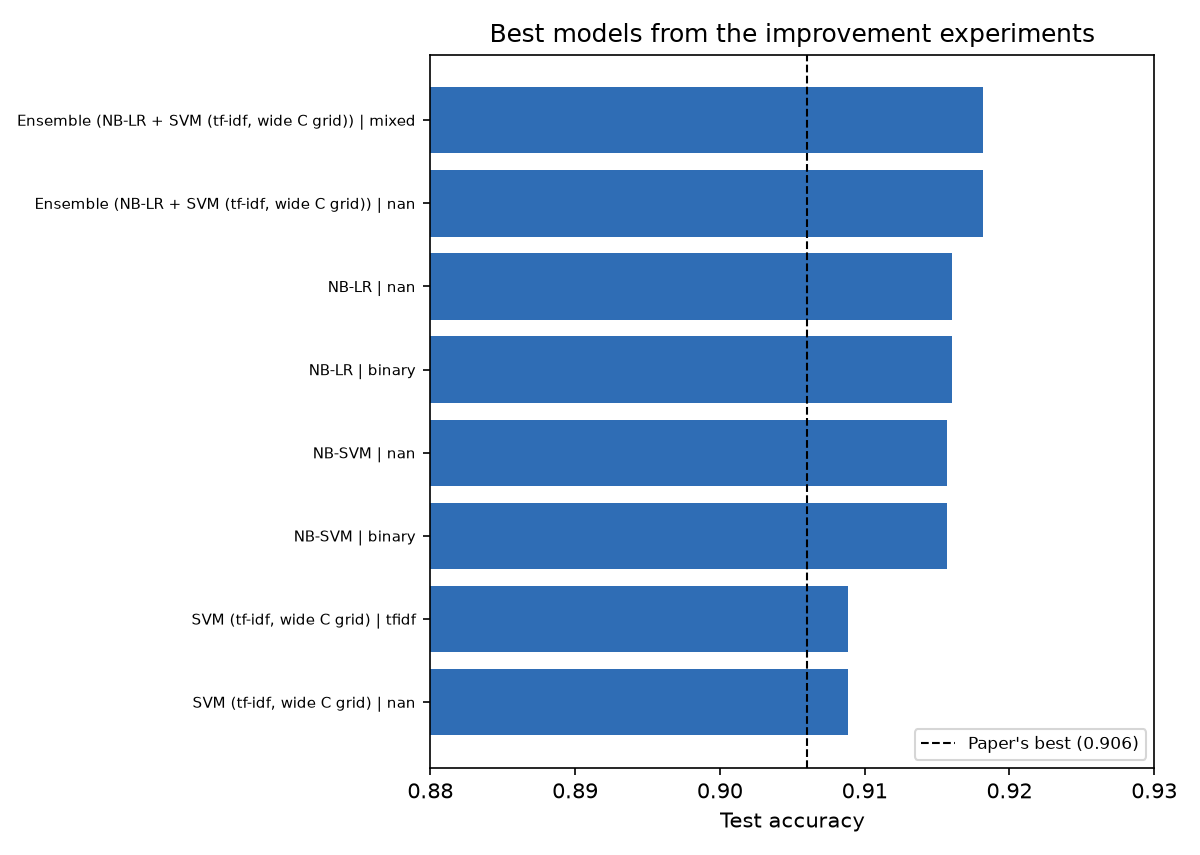
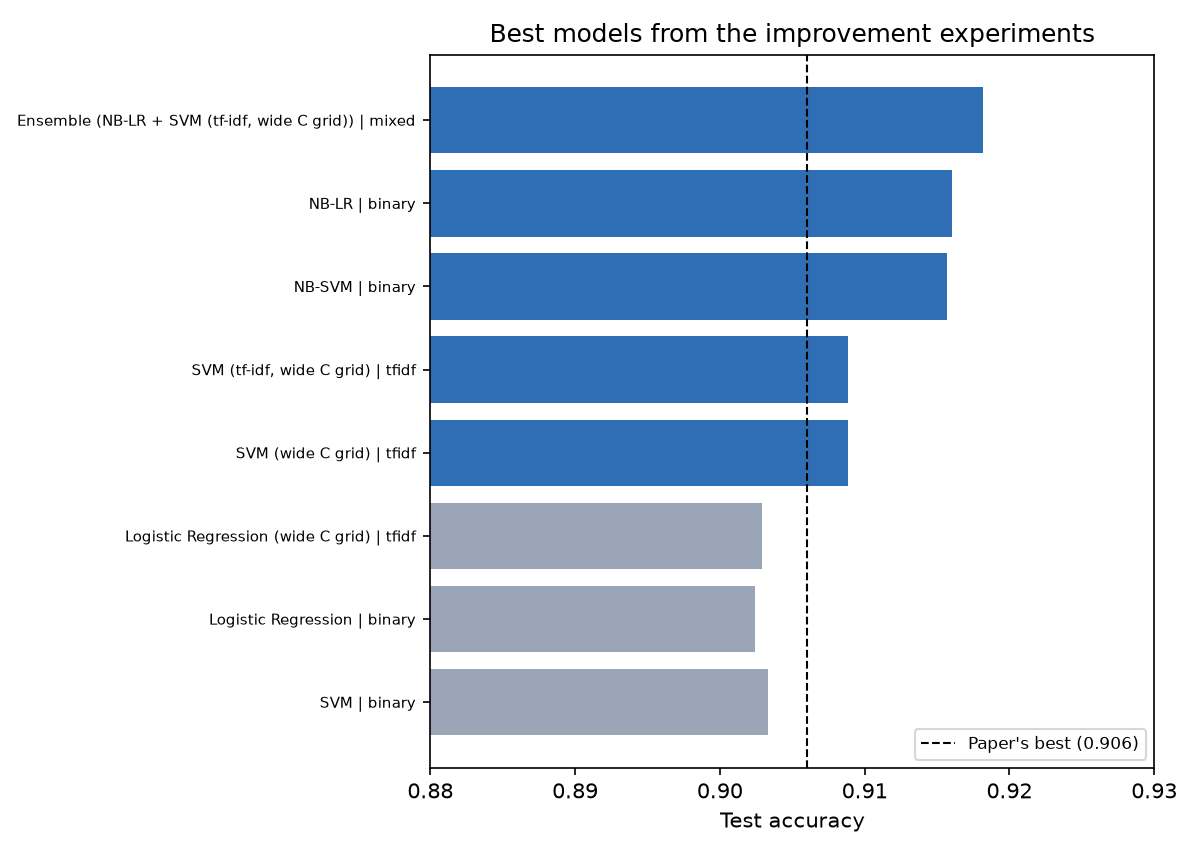
useless commit

diff --git a/src/preprocess.py b/src/preprocess.py
@@ -15,10 +15,15 @@ import pandas as pd
 from nltk.corpus import stopwords
 from nltk.stem import WordNetLemmatizer
 
-from src.config import PROCESSED_DIR, QUICK_N, SEED
+from src.config import DATA_DIR, PROCESSED_DIR, QUICK_N, SEED
 from src.data import load_raw
 
 CLEANING_MODES = ("paper", "paper_nltk", "minimal")
+
+# NLTK's stop words and WordNet are kept inside the project, so every shell and machine
+# reads the same copy and nothing has to be downloaded again at demo time.
+NLTK_DIR = DATA_DIR / "nltk_data"
+nltk.data.path.insert(0, str(NLTK_DIR))
 
 # The paper does not name its stop-word list; its examples ('a', 'the', 'of') come from the
 # short list used in the tutorial it cites for its method (A. Kub, refs [5, 6]).
@@ -34,7 +39,7 @@ def _nltk_stop_words():
     try:
         words = stopwords.words("english")
     except LookupError:
-        nltk.download("stopwords", quiet=True)
+        nltk.download("stopwords", download_dir=str(NLTK_DIR), quiet=True)
         words = stopwords.words("english")
     # Apostrophes are deleted from the text, so "don't" has to match "dont".
     return frozenset(w.replace("'", "") for w in words)
@@ -45,7 +50,7 @@ def _root(word):
     try:
         return _lemmatizer.lemmatize(_lemmatizer.lemmatize(word, pos="v"), pos="n")
     except LookupError:
-        nltk.download("wordnet", quiet=True)
+        nltk.download("wordnet", download_dir=str(NLTK_DIR), quiet=True)
         return _lemmatizer.lemmatize(_lemmatizer.lemmatize(word, pos="v"), pos="n")
 
 

diff --git a/src/evaluate.py b/src/evaluate.py
@@ -33,12 +33,19 @@ def save_results(rows, name):
 
 
 def load_all_results(prefix=""):
-    """Concatenate every results CSV whose file name starts with `prefix`."""
+    """Concatenate every results CSV whose file name starts with `prefix`.
+
+    Files without the shared result columns (for example the ROC-AUC table) are skipped,
+    and a model that two scripts ran with the same settings is listed once.
+    """
     frames = [pd.read_csv(path).assign(experiment=path.stem)
               for path in sorted(RESULTS_DIR.glob(f"{prefix}*.csv"))]
+    frames = [frame for frame in frames if set(RESULT_COLUMNS) <= set(frame.columns)]
     if not frames:
         return pd.DataFrame(columns=RESULT_COLUMNS + ["experiment"])
-    return pd.concat(frames, ignore_index=True)
+    combined = pd.concat(frames, ignore_index=True)
+    return combined.drop_duplicates(["model", "vectorization", "cleaning", "C", "accuracy"],
+                                    ignore_index=True)
 
 
 def paper_table():
